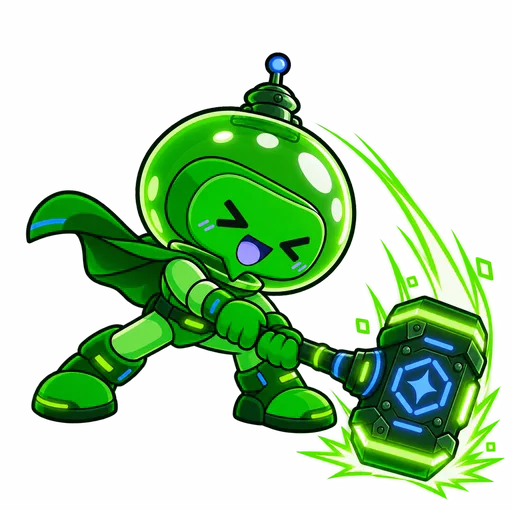
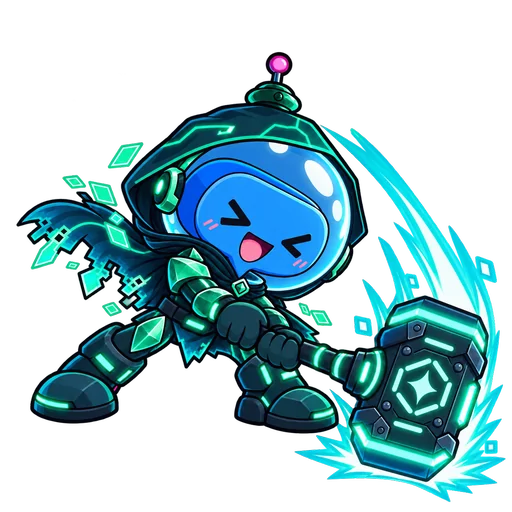
Replace palette swaps with full Dili costumes

diff --git a/src/app/App.tsx b/src/app/App.tsx
@@ -387,7 +387,7 @@ function EquipmentScreen() {
         text={tab === 'loadout' ? 'Three slots. A different way to break the network.'
           : tab === 'inventory' ? 'Every item you own, grouped by slot. Upgrade or equip for your next run.'
             : tab === 'shop' ? 'Spend earned Bits on a known item or open a gear or skill chest.'
-              : 'Choose a look for Dili. Skins change visuals only, across every combat pose.'}
+              : 'Choose Dili\'s costume. Every outfit has unique armor, weapons and effects across all combat poses.'}
       />
       <div className="gear-tabs" role="tablist" aria-label="Equipment views">
         {([['loadout', 'Loadout'], ['inventory', 'Inventory'], ['shop', 'Shop'], ['skins', 'Skins']] as const).map(([id, label]) => (
@@ -511,14 +511,14 @@ function SkinPanel() {
   const { save, selectSkin, run } = useGame();
   return (
     <section className="skin-collection" aria-label="Dili skins">
-      <p className="shop-note">All skins are available. Your choice is saved locally and applies to the next run{run && !run.result ? '; the active run keeps its current look' : ''}.</p>
+      <p className="shop-note">All costumes are available and cosmetic only. Your choice is saved locally and applies to the next run{run && !run.result ? '; the active run keeps its current outfit' : ''}.</p>
       <div className="skin-grid">
         {SKINS.map((skin) => {
           const selected = save.account.skinId === skin.id;
           return (
             <article className="panel skin-card" key={skin.id} data-skin-id={skin.id} data-selected={selected} style={{ '--skin-color': skin.accent } as CSSProperties}>
               <div className="skin-card-art"><img src={DILI_SKIN_ASSETS[skin.id].idle} alt={`Dili wearing ${skin.name}`} loading="lazy" /></div>
-              <div><span className="eyebrow">DILI SKIN</span><h2>{skin.name}</h2><p>{skin.description}</p></div>
+              <div><span className="eyebrow">DILI COSTUME</span><h2>{skin.name}</h2><p>{skin.description}</p></div>
               <Button disabled={selected} onClick={() => selectSkin(skin.id)}>{selected ? 'Selected' : 'Use this skin'}</Button>
             </article>
           );

diff --git a/src/content/skins.ts b/src/content/skins.ts
@@ -8,8 +8,8 @@ export interface SkinDefinition {
 }
 export const SKINS: SkinDefinition[] = [
   { id: 'signal_blue', name: 'Signal Blue', description: 'Dili\'s original network armor.', accent: '#67e7ef' },
-  { id: 'neon_rose', name: 'Neon Rose', description: 'A bright magenta signal for every pose.', accent: '#f58ae8' },
-  { id: 'solar_circuit', name: 'Solar Circuit', description: 'Warm orange plating with a live-wire glow.', accent: '#ffad70' },
-  { id: 'jade_glitch', name: 'Jade Glitch', description: 'A green pulse through Dili\'s whole kit.', accent: '#9cf777' },
+  { id: 'neon_rose', name: 'Night Operative', description: 'Tactical stealth armor with a magenta signal edge.', accent: '#ff46dc' },
+  { id: 'solar_circuit', name: 'Solar Vanguard', description: 'White-gold command armor powered by a sun core.', accent: '#ffb52e' },
+  { id: 'jade_glitch', name: 'Glitch Phantom', description: 'A hooded data-cloak breaking into jade pixels.', accent: '#45f2c0' },
 ];
 export const SKIN_BY_ID: Record<SkinId, SkinDefinition> = Object.fromEntries(SKINS.map((skin) => [skin.id, skin])) as Record<SkinId, SkinDefinition>;

diff --git a/src/content/assets.ts b/src/content/assets.ts
@@ -78,7 +78,7 @@ export const SKILL_ART: Record<Archetype, string> = {
 };
 
 export type DiliPose = 'idle' | 'attack' | 'sword_idle' | 'sword_attack' | 'hammer_idle' | 'hammer_attack' | 'hurt' | 'ultimate';
-const palette = (name: string): Record<DiliPose, string> => ({
+const costumeAssetSet = (name: string): Record<DiliPose, string> => ({
   idle: asset(`dili-skin-${name}-idle.webp`),
   attack: asset(`dili-skin-${name}-attack.webp`),
   sword_idle: asset(`dili-skin-${name}-sword-idle.webp`),
@@ -99,7 +99,7 @@ export const DILI_SKIN_ASSETS: Record<SkinId, Record<DiliPose, string>> = {
     hurt: ASSETS.dili_hurt,
     ultimate: ASSETS.dili_ultimate,
   },
-  neon_rose: palette('rose'),
-  solar_circuit: palette('solar'),
-  jade_glitch: palette('jade'),
+  neon_rose: costumeAssetSet('rose'),
+  solar_circuit: costumeAssetSet('solar'),
+  jade_glitch: costumeAssetSet('jade'),
 };

diff --git a/tests/e2e/game.spec.ts b/tests/e2e/game.spec.ts
@@ -120,6 +120,9 @@ test('Dili skin gallery saves a cosmetic choice and uses it in ranged battle', a
   await expect(page.locator('[data-skin-id]')).toHaveCount(4);
   await expect(page.locator('[data-skin-id="signal_blue"] button')).toBeDisabled();
   const rose = page.locator('[data-skin-id="neon_rose"]');
+  await expect(rose.getByRole('heading', { name: 'Night Operative' })).toBeVisible();
+  await expect(page.getByRole('heading', { name: 'Solar Vanguard' })).toBeVisible();
+  await expect(page.getByRole('heading', { name: 'Glitch Phantom' })).toBeVisible();
   await rose.getByRole('button', { name: 'Use this skin' }).click();
   await expect(rose.getByRole('button', { name: 'Selected' })).toBeDisabled();
   expect(await page.evaluate(() => document.documentElement.scrollWidth <= innerWidth)).toBe(true);

diff --git a/dlicom-attack-docs/docs/09_ART_VFX_AUDIO_DIRECTION.md b/dlicom-attack-docs/docs/09_ART_VFX_AUDIO_DIRECTION.md
@@ -6,9 +6,13 @@ The equipment and skill chests have original transparent cyber-fantasy illustrat
 
 ## Dili cosmetic skins
 
-Dili has four selectable visual palettes: the original Signal Blue plus Neon Rose, Solar Circuit and Jade Glitch. Each alternate palette is derived consistently from the existing Dili pose artwork and includes ranged idle/attack, sword idle/attack, hammer idle/attack, hurt and ultimate. These are compressed transparent WebP assets in `public/assets/`. Skins alter only presentation; combat rules and stats are unchanged. The selected skin is saved locally and captured when a run starts, so changing it while a run is active affects the next run.
+Dili has four selectable costumes: the original Signal Blue, Night Operative, Solar Vanguard and Glitch Phantom. These are complete outfit designs rather than color transforms. Every costume includes ranged idle/attack, sword idle/attack, hammer idle/attack, hurt and ultimate. The generated transparent PNG masters live in `assets/skin-source/`; 512 x 512 transparent runtime WebP files live in `public/assets/`. Skins alter only presentation; combat rules and stats are unchanged. The selected skin is saved locally and captured when a run starts, so changing it while a run is active affects the next run.
 
-The palette transforms are hue rotations of 85°, 170° and 265° respectively, at 1.1/1.08/1.08 saturation. Source poses are resized to 512 px width and encoded as transparent WebP at quality 88. Keep the full eight-pose set aligned when adjusting a palette.
+- **Night Operative** uses charcoal tactical armor, a high collar, split stealth mantle, segmented guards, belt pouches and magenta signal circuitry. Its gun, sword, hammer and ultimate share black-metal construction with magenta energy.
+- **Solar Vanguard** uses sculpted white-gold command armor, broad shoulder guards, an orange split cape and a sun-core badge. Its weapons and ultimate use radiant amber energy.
+- **Glitch Phantom** uses a midnight-teal hooded data-cloak, asymmetric pixel-torn hem, faceted jade armor, circuit cracks and floating data shards. Its weapons and ultimate break into jade data effects.
+
+Preserve Dili's blue face, speech-bubble head, round transparent helmet, antenna and friendly proportions across all costumes. Keep a costume's silhouette, materials, weapon design and energy language consistent through its complete eight-pose set. Runtime assets are encoded as transparent WebP at quality 86.
 
 ## 1. Art identity
 

diff --git a/dlicom-attack-docs/docs/15_AI_ASSET_PROMPTS.md b/dlicom-attack-docs/docs/15_AI_ASSET_PROMPTS.md
@@ -105,3 +105,34 @@ Avoid:
 - random costume redesign
 - illegible text
 - watermark
+
+---
+
+# 14. Dili costume set
+
+Use the matching generated idle master in `assets/skin-source/` as the costume reference and the original Signal Blue pose as the action reference. Preserve the action reference's pose, expression, framing and proportions while carrying every structural costume detail into the new pose. Require a genuine transparent alpha background with no floor, scenery, text, logo, watermark, border or cast shadow.
+
+Generate all eight poses for each costume:
+
+```text
+idle
+attack
+sword-idle
+sword-attack
+hammer-idle
+hammer-attack
+hurt
+ultimate
+```
+
+## Night Operative
+
+> Same Dili mascot wearing charcoal-black tactical armor with a high collar, short split stealth mantle, segmented forearm and shin guards, belt pouches, magenta helmet rim and sharp magenta signal circuitry. Black-metal weapons share magenta energy cores. Ultimate creates a magenta-black signal burst with sharp digital arcs. Preserve Dili's blue face, round transparent helmet, antenna and cute proportions. Polished 2D game sprite, thick clean outline, readable silhouette, transparent background.
+
+## Solar Vanguard
+
+> Same Dili mascot wearing sculpted white and warm-gold modular command armor, broad angular shoulder guards, orange split cape, sunburst chest badge, gold bracers and boots, white-gold helmet crown and amber energy seams. White-gold weapons share radiant amber cores. Ultimate creates an angular amber-gold solar flare. Preserve Dili's blue face, round transparent helmet, antenna and cute proportions. Polished 2D game sprite, thick clean outline, readable silhouette, transparent background.
+
+## Glitch Phantom
+
+> Same Dili mascot wearing a deep midnight-teal hooded data-cloak with an asymmetric torn pixel hem, floating data shards, faceted jade armor, luminous circuit cracks, one angular shoulder guard and jade headset details. Dark weapons split into jade data effects. Ultimate creates a teal-jade data rupture with pixel shards and broken circuit arcs. Preserve Dili's blue face, round transparent helmet, antenna and cute proportions. Polished 2D game sprite, thick clean outline, readable silhouette, transparent background.

diff --git a/dlicom-attack-docs/docs/05_EQUIPMENT_AND_META_PROGRESSION.md b/dlicom-attack-docs/docs/05_EQUIPMENT_AND_META_PROGRESSION.md
@@ -155,7 +155,7 @@ Per the later human direction, the loadout screen also has an Inventory and a ge
 
 The later chest request adds two optional Bits purchases in that Shop. A **Gear chest costs 250 Bits** and reveals one random unowned equipment item. The base rarity weights are Common 55%, Rare 30%, Epic 12%, Legendary 3%; tiers with no unowned items are skipped and the remaining weights are normalized. The chest closes when the full collection is owned. A **Skill chest costs 200 Bits** and reveals one currently unlocked skill with no unmet prerequisites. It is queued at Rank 1 for the next run. Only one skill may be queued; the skill remains queued if that run is interrupted or the page reloads, and is consumed when the run ends. These prices and weights are reversible balance assumptions. Chest draws use seeded RNG, show the result immediately, and remain local-save only.
 
-The later skin request adds a Skins tab beside Loadout, Inventory and Shop. Signal Blue and three alternate Dili palettes are available without Bits cost. Skin choice is cosmetic, stored in versioned local save, and applied to all Dili combat poses at the start of the next run. No skin adds stats or changes skill rules.
+The later skin request adds a Skins tab beside Loadout, Inventory and Shop. Signal Blue and three complete Dili costumes are available without Bits cost: Night Operative, Solar Vanguard and Glitch Phantom. Each has distinct armor, weapon styling and effects across eight combat poses. Skin choice is cosmetic, stored in versioned local save, and applied to all Dili combat poses at the start of the next run. No skin adds stats or changes skill rules. The stable save IDs remain `neon_rose`, `solar_circuit` and `jade_glitch` for compatibility with existing version-4 saves.
 
 ---
 

diff --git a/dlicom-attack-docs/docs/08_UI_UX_AND_SCREENS.md b/dlicom-attack-docs/docs/08_UI_UX_AND_SCREENS.md
@@ -78,7 +78,7 @@ inventory and upgrade.
 
 Use Loadout, Inventory and Shop tabs. Show owned counts and current levels in Inventory; show price and affordability in Shop. Keep the three-slot loadout visible in its own tab. Short node-arrival transitions may mark route, combat, draft, event and rest changes; they must not add page overflow and must respect reduced-motion settings.
 
-The Loadout area also includes a Skins tab with four Dili previews. Show the selected state clearly, preserve the choice after reload, and explain that changes to an active run's appearance apply next run. The four tabs must fit a 320 CSS-pixel viewport without horizontal scrolling.
+The Loadout area also includes a Skins tab with four Dili costume previews. Night Operative, Solar Vanguard and Glitch Phantom must read as different outfits through silhouette, armor, clothing, weapons and effects rather than palette swaps. Show the selected state clearly, preserve the choice after reload, and explain that changes to an active run's appearance apply next run. The four tabs must fit a 320 CSS-pixel viewport without horizontal scrolling.
 
 The Shop also offers Gear and Skill chests. Show exact Bits prices, the gear chest's base rarity weights, the one-skill queue limit, and a visible reward reveal. The queued skill must be visible from Loadout before starting a run. Chest reveal animation respects reduced motion and must not introduce horizontal overflow on small phones.
 

diff --git a/README.md b/README.md
@@ -39,7 +39,7 @@ Open the URL printed by Vite. Choose an unlocked chapter and watch Dili fight au
 - Twenty seeded events with choices, run buffs, healing, Bits, skill drafts and optional elite fights.
 - Dili reference-based combat poses, distinct generated sprites for all ten normal enemy kinds and four bosses, four illustrated chapter battle backgrounds, one original synthesized music loop per chapter, bounded VFX/text objects and SFX.
 - Equipping Encryption Blade or Moderator Hammer changes Dili's idle and attack poses and turns basic attacks into a melee slash or heavy smash; their equipment passives also shape the build.
-- Four selectable Dili skins appear across ranged, sword and hammer poses, plus hurt and ultimate. Skin choice saves locally and never changes combat stats.
+- Four selectable Dili costumes include distinct armor, weapons and effects across ranged, sword, hammer, hurt and ultimate poses. Costume choice saves locally and never changes combat stats.
 - Node 10's Signal Bazaar offers an optional Rare-or-better skill draft for 80 run Bits, creating a choice between immediate power and the final Bits payout. Short transitions identify each new run phase.
 - Responsive desktop/mobile UI, keyboard focus states, local fonts and local audio.
 
